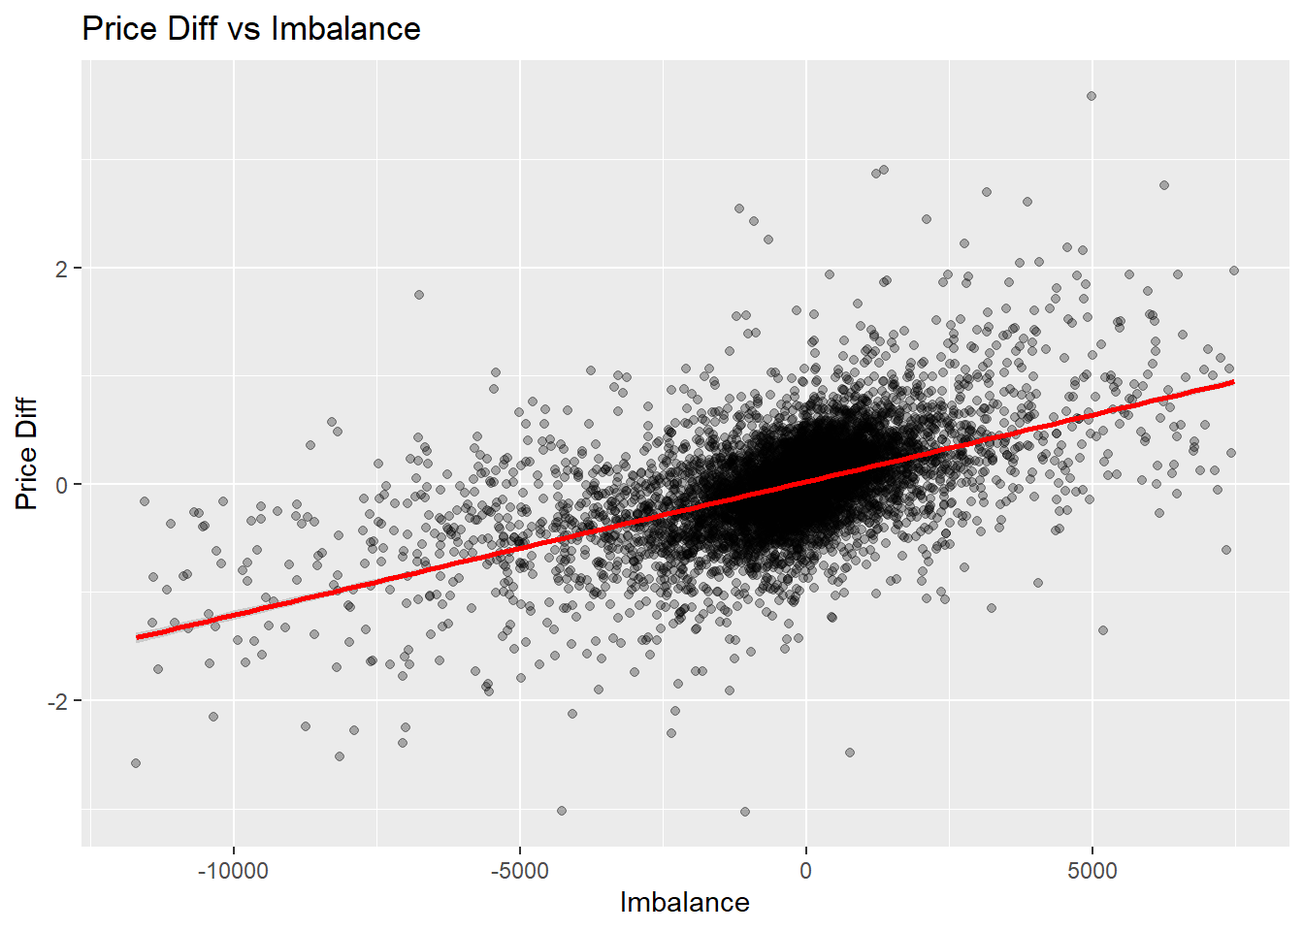
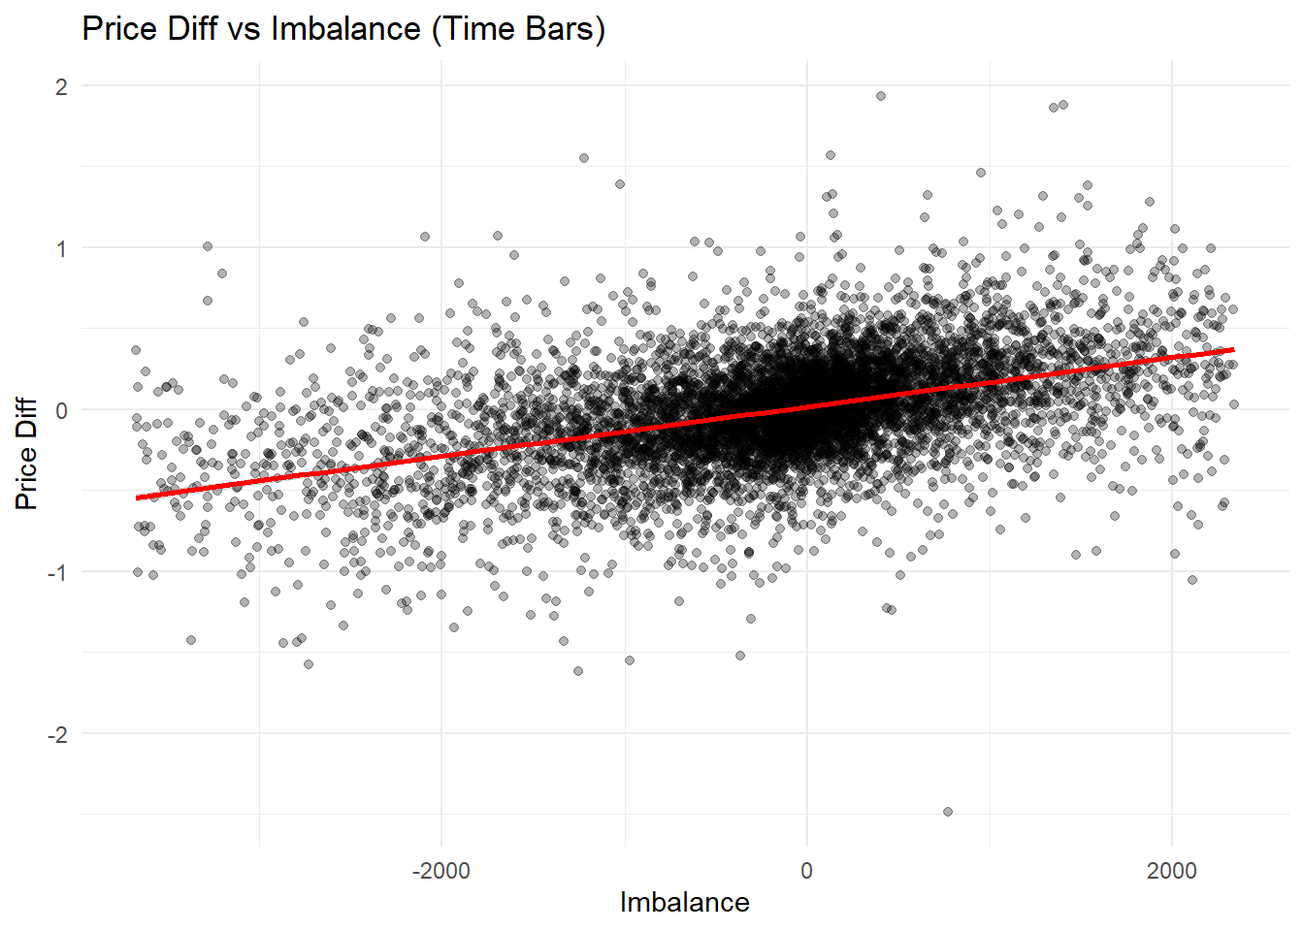
Market impact model changes.

diff --git a/market_impact/estimation_of_market_impact.html b/market_impact/estimation_of_market_impact.html
@@ -116,7 +116,12 @@ window.Quarto = {
    
   <ul>
   <li><a href="#introduction" id="toc-introduction" class="nav-link active" data-scroll-target="#introduction">Introduction</a></li>
-  <li><a href="#regression" id="toc-regression" class="nav-link" data-scroll-target="#regression">Regression</a></li>
+  <li><a href="#regression" id="toc-regression" class="nav-link" data-scroll-target="#regression">Regression</a>
+  <ul class="collapse">
+  <li><a href="#time-bars-5-minutes" id="toc-time-bars-5-minutes" class="nav-link" data-scroll-target="#time-bars-5-minutes">Time Bars (5 minutes)</a></li>
+  <li><a href="#volume-bars-5000-base_qty" id="toc-volume-bars-5000-base_qty" class="nav-link" data-scroll-target="#volume-bars-5000-base_qty">Volume Bars (5000 base_qty)</a></li>
+  </ul></li>
+  <li><a href="#conclusion" id="toc-conclusion" class="nav-link" data-scroll-target="#conclusion">Conclusion</a></li>
   </ul>
 </nav>
 </div>
@@ -155,7 +160,7 @@ window.Quarto = {
 
 <section id="introduction" class="level1">
 <h1>Introduction</h1>
-<p>To compute trading curves and trading envelopes, market impact and execution costs are needed.</p>
+<p>To compute trading curves and trading envelopes, market impact and execution costs are needed. We estimate the permanent impact parameter using one month (August 2024) of Binance SOLUSD_PERP perpetual futures data: tick-level <code>trades</code> (individual executions, signed by taker side) and <code>bookTicker</code> (best bid/ask snapshots), from which the mid-price process is reconstructed.</p>
 <div class="cell">
 <div class="code-copy-outer-scaffold"><div class="sourceCode cell-code" id="cb1"><pre class="sourceCode r code-with-copy"><code class="sourceCode r"><span id="cb1-1"><a href="#cb1-1" aria-hidden="true" tabindex="-1"></a>trades <span class="ot">&lt;-</span> <span class="fu">fread</span>(<span class="st">"data/SOLUSD_PERP-trades-2024-08.csv"</span>)</span>
 <span id="cb1-2"><a href="#cb1-2" aria-hidden="true" tabindex="-1"></a>bookTicker <span class="ot">&lt;-</span> <span class="fu">fread</span>(<span class="st">"data/SOLUSD_PERP-bookTicker-2024-08.csv"</span>)</span>
@@ -170,6 +175,7 @@ window.Quarto = {
 <span id="cb1-11"><a href="#cb1-11" aria-hidden="true" tabindex="-1"></a><span class="fu">setorder</span>(trades, time)</span>
 <span id="cb1-12"><a href="#cb1-12" aria-hidden="true" tabindex="-1"></a><span class="fu">setorder</span>(bookTicker, transaction_time)</span></code></pre></div><button title="Copy to Clipboard" class="code-copy-button"><i class="bi"></i></button></div>
 </div>
+<p>For each trade we attach the most recent mid-price observed before it (<code>pre_mid</code>) and the first mid-price observed after it (<code>post_mid</code>), so that the difference between the two isolates the price move associated with that trade (or a bar of trades) net of unrelated mid-price drift.</p>
 <div class="cell">
 <div class="code-copy-outer-scaffold"><div class="sourceCode cell-code" id="cb2"><pre class="sourceCode r code-with-copy"><code class="sourceCode r"><span id="cb2-1"><a href="#cb2-1" aria-hidden="true" tabindex="-1"></a><span class="fu">setkey</span>(bookTicker, transaction_time)</span>
 <span id="cb2-2"><a href="#cb2-2" aria-hidden="true" tabindex="-1"></a>trades[, pre_mid <span class="sc">:</span><span class="er">=</span> bookTicker[trades, on <span class="ot">=</span> .(transaction_time <span class="sc">&lt;</span> time), mult <span class="ot">=</span> <span class="st">"last"</span>, .(mid_price)]<span class="sc">$</span>mid_price]</span>
@@ -177,14 +183,13 @@ window.Quarto = {
 </div>
 <p>The mid price of a stock is modeled by a process <span class="math display">\[
 d S_t = \sigma d W_t + k v_t dt
-\]</span> where <span class="math inline">\(\sigma\)</span> is a positive constant called the arithmetic volatility of the asset, and <span class="math inline">\(k\)</span> is the nonegative parameter modeling the magnitude of the permanent market impact.</p>
-<blockquote class="blockquote">
-<p>investigate how the trader’s own actions together with the order flow of other market participants affects the price of the assets she is trading.</p>
-</blockquote>
+\]</span> where <span class="math inline">\(\sigma\)</span> is a positive constant called the arithmetic volatility of the asset, and <span class="math inline">\(k\)</span> is the nonegative parameter modeling the magnitude of the <strong>permanent market impact</strong>.</p>
+<p>Integrating the drift term over a bar gives <span class="math inline">\(S_{t+\Delta} - S_t \approx k \sum_i v_i + \text{noise}\)</span>, so regressing a bar’s mid-price change (<code>price_diff</code>) on its net signed volume (<code>imbalance</code>) recovers <span class="math inline">\(k\)</span>, the permanent impact per unit of signed order flow, as the slope.</p>
+<p>Bars are constructed two ways to check that the estimate of <span class="math inline">\(k\)</span> is not an artifact of the sampling scheme: fixed 5-minute time bars, and volume bars that close every 5,000 units of <code>base_qty</code> traded.</p>
 <div class="cell">
 <div class="code-copy-outer-scaffold"><div class="sourceCode cell-code" id="cb3"><pre class="sourceCode r code-with-copy"><code class="sourceCode r"><span id="cb3-1"><a href="#cb3-1" aria-hidden="true" tabindex="-1"></a>trades[, sign <span class="sc">:</span><span class="er">=</span> <span class="fu">ifelse</span>(is_buyer_maker, <span class="sc">-</span><span class="dv">1</span>, <span class="dv">1</span>)]</span>
 <span id="cb3-2"><a href="#cb3-2" aria-hidden="true" tabindex="-1"></a>trades[, sign_base_qty <span class="sc">:</span><span class="er">=</span> base_qty <span class="sc">*</span> sign]</span>
-<span id="cb3-3"><a href="#cb3-3" aria-hidden="true" tabindex="-1"></a>bars <span class="ot">&lt;-</span> trades[, .(</span>
+<span id="cb3-3"><a href="#cb3-3" aria-hidden="true" tabindex="-1"></a>bars_time <span class="ot">&lt;-</span> trades[, .(</span>
 <span id="cb3-4"><a href="#cb3-4" aria-hidden="true" tabindex="-1"></a>  <span class="at">imbalance =</span> <span class="fu">sum</span>(sign_base_qty),</span>
 <span id="cb3-5"><a href="#cb3-5" aria-hidden="true" tabindex="-1"></a>  <span class="at">base_qty =</span> <span class="fu">sum</span>(base_qty),</span>
 <span id="cb3-6"><a href="#cb3-6" aria-hidden="true" tabindex="-1"></a>  <span class="at">n_trades =</span> .N,</span>
@@ -192,59 +197,76 @@ d S_t = \sigma d W_t + k v_t dt
 <span id="cb3-8"><a href="#cb3-8" aria-hidden="true" tabindex="-1"></a>  <span class="at">pre_mid_price =</span> <span class="fu">first</span>(pre_mid),</span>
 <span id="cb3-9"><a href="#cb3-9" aria-hidden="true" tabindex="-1"></a>  <span class="at">post_mid_price =</span> <span class="fu">last</span>(post_mid)</span>
 <span id="cb3-10"><a href="#cb3-10" aria-hidden="true" tabindex="-1"></a>), by <span class="ot">=</span> .(<span class="at">bin =</span> <span class="fu">floor_date</span>(ts, <span class="st">"5 minutes"</span>))]</span>
-<span id="cb3-11"><a href="#cb3-11" aria-hidden="true" tabindex="-1"></a>bars[, std_dev <span class="sc">:</span><span class="er">=</span> <span class="fu">rollapply</span>(pre_mid_price, <span class="at">width =</span> <span class="dv">15</span>, <span class="at">FUN =</span> sd, <span class="at">fill =</span> <span class="cn">NA</span>, <span class="at">align =</span> <span class="st">"right"</span>)]</span></code></pre></div><button title="Copy to Clipboard" class="code-copy-button"><i class="bi"></i></button></div>
+<span id="cb3-11"><a href="#cb3-11" aria-hidden="true" tabindex="-1"></a>bars_time[, std_dev <span class="sc">:</span><span class="er">=</span> <span class="fu">rollapply</span>(pre_mid_price, <span class="at">width =</span> <span class="dv">15</span>, <span class="at">FUN =</span> sd, <span class="at">fill =</span> <span class="cn">NA</span>, <span class="at">align =</span> <span class="st">"right"</span>)]</span></code></pre></div><button title="Copy to Clipboard" class="code-copy-button"><i class="bi"></i></button></div>
 </div>
 <div class="cell">
-<div class="code-copy-outer-scaffold"><div class="sourceCode cell-code" id="cb4"><pre class="sourceCode r code-with-copy"><code class="sourceCode r"><span id="cb4-1"><a href="#cb4-1" aria-hidden="true" tabindex="-1"></a>q_std_dev <span class="ot">&lt;-</span> <span class="fu">quantile</span>(bars<span class="sc">$</span>std_dev, <span class="fl">0.995</span>, <span class="at">na.rm =</span> <span class="cn">TRUE</span>)</span>
-<span id="cb4-2"><a href="#cb4-2" aria-hidden="true" tabindex="-1"></a>q_imbalance_high <span class="ot">&lt;-</span> <span class="fu">quantile</span>(bars<span class="sc">$</span>imbalance, <span class="fl">0.995</span>, <span class="at">na.rm =</span> <span class="cn">TRUE</span>)</span>
-<span id="cb4-3"><a href="#cb4-3" aria-hidden="true" tabindex="-1"></a>q_imbalance_low <span class="ot">&lt;-</span> <span class="fu">quantile</span>(bars<span class="sc">$</span>imbalance, <span class="fl">0.005</span>, <span class="at">na.rm =</span> <span class="cn">TRUE</span>)</span>
-<span id="cb4-4"><a href="#cb4-4" aria-hidden="true" tabindex="-1"></a>bars <span class="ot">&lt;-</span> bars[std_dev <span class="sc">&lt;=</span> q_std_dev <span class="sc">&amp;</span> imbalance <span class="sc">&lt;=</span> q_imbalance_high <span class="sc">&amp;</span> imbalance <span class="sc">&gt;=</span> q_imbalance_low]</span></code></pre></div><button title="Copy to Clipboard" class="code-copy-button"><i class="bi"></i></button></div>
+<div class="code-copy-outer-scaffold"><div class="sourceCode cell-code" id="cb4"><pre class="sourceCode r code-with-copy"><code class="sourceCode r"><span id="cb4-1"><a href="#cb4-1" aria-hidden="true" tabindex="-1"></a><span class="co"># Volume bars: group trades into buckets of 5000 base_qty traded</span></span>
+<span id="cb4-2"><a href="#cb4-2" aria-hidden="true" tabindex="-1"></a>trades[, cum_base_qty <span class="sc">:</span><span class="er">=</span> <span class="fu">cumsum</span>(base_qty)]</span>
+<span id="cb4-3"><a href="#cb4-3" aria-hidden="true" tabindex="-1"></a>trades[, vol_bin <span class="sc">:</span><span class="er">=</span> <span class="fu">floor</span>(cum_base_qty <span class="sc">/</span> <span class="dv">5000</span>)]</span>
+<span id="cb4-4"><a href="#cb4-4" aria-hidden="true" tabindex="-1"></a>bars_volume <span class="ot">&lt;-</span> trades[, .(</span>
+<span id="cb4-5"><a href="#cb4-5" aria-hidden="true" tabindex="-1"></a>  <span class="at">imbalance =</span> <span class="fu">sum</span>(sign_base_qty),</span>
+<span id="cb4-6"><a href="#cb4-6" aria-hidden="true" tabindex="-1"></a>  <span class="at">base_qty =</span> <span class="fu">sum</span>(base_qty),</span>
+<span id="cb4-7"><a href="#cb4-7" aria-hidden="true" tabindex="-1"></a>  <span class="at">n_trades =</span> .N,</span>
+<span id="cb4-8"><a href="#cb4-8" aria-hidden="true" tabindex="-1"></a>  <span class="at">price_diff =</span> <span class="fu">last</span>(post_mid) <span class="sc">-</span> <span class="fu">first</span>(pre_mid),</span>
+<span id="cb4-9"><a href="#cb4-9" aria-hidden="true" tabindex="-1"></a>  <span class="at">pre_mid_price =</span> <span class="fu">first</span>(pre_mid),</span>
+<span id="cb4-10"><a href="#cb4-10" aria-hidden="true" tabindex="-1"></a>  <span class="at">post_mid_price =</span> <span class="fu">last</span>(post_mid)</span>
+<span id="cb4-11"><a href="#cb4-11" aria-hidden="true" tabindex="-1"></a>), by <span class="ot">=</span> .(<span class="at">bin =</span> vol_bin)]</span>
+<span id="cb4-12"><a href="#cb4-12" aria-hidden="true" tabindex="-1"></a>bars_volume[, std_dev <span class="sc">:</span><span class="er">=</span> <span class="fu">rollapply</span>(pre_mid_price, <span class="at">width =</span> <span class="dv">15</span>, <span class="at">FUN =</span> sd, <span class="at">fill =</span> <span class="cn">NA</span>, <span class="at">align =</span> <span class="st">"right"</span>)]</span></code></pre></div><button title="Copy to Clipboard" class="code-copy-button"><i class="bi"></i></button></div>
+</div>
+<p>The top 5% of rolling volatility (<code>std_dev</code>) and top 5% of traded volume (<code>base_qty</code>) are dropped to exclude bars dominated by news or liquidation events, the top and bottom 5% of <code>imbalance</code> are dropped to limit outlier influence on the OLS fit, and bars with <code>abs(imbalance) &lt;= 1</code> (roughly below $100 notional) are dropped since they carry little order-flow information.</p>
+<div class="cell">
+<div class="code-copy-outer-scaffold"><div class="sourceCode cell-code" id="cb5"><pre class="sourceCode r code-with-copy"><code class="sourceCode r"><span id="cb5-1"><a href="#cb5-1" aria-hidden="true" tabindex="-1"></a>filter_bars <span class="ot">&lt;-</span> <span class="cf">function</span>(bars) {</span>
+<span id="cb5-2"><a href="#cb5-2" aria-hidden="true" tabindex="-1"></a>  q_std_dev <span class="ot">&lt;-</span> <span class="fu">quantile</span>(bars<span class="sc">$</span>std_dev, <span class="fl">0.95</span>, <span class="at">na.rm =</span> <span class="cn">TRUE</span>)</span>
+<span id="cb5-3"><a href="#cb5-3" aria-hidden="true" tabindex="-1"></a>  q_base_qty <span class="ot">&lt;-</span> <span class="fu">quantile</span>(bars<span class="sc">$</span>base_qty, <span class="fl">0.95</span>, <span class="at">na.rm =</span> <span class="cn">TRUE</span>)</span>
+<span id="cb5-4"><a href="#cb5-4" aria-hidden="true" tabindex="-1"></a>  q_imbalance_high <span class="ot">&lt;-</span> <span class="fu">quantile</span>(bars<span class="sc">$</span>imbalance, <span class="fl">0.95</span>, <span class="at">na.rm =</span> <span class="cn">TRUE</span>)</span>
+<span id="cb5-5"><a href="#cb5-5" aria-hidden="true" tabindex="-1"></a>  q_imbalance_low <span class="ot">&lt;-</span> <span class="fu">quantile</span>(bars<span class="sc">$</span>imbalance, <span class="fl">0.05</span>, <span class="at">na.rm =</span> <span class="cn">TRUE</span>)</span>
+<span id="cb5-6"><a href="#cb5-6" aria-hidden="true" tabindex="-1"></a>  bars[</span>
+<span id="cb5-7"><a href="#cb5-7" aria-hidden="true" tabindex="-1"></a>    std_dev <span class="sc">&lt;=</span> q_std_dev <span class="sc">&amp;</span></span>
+<span id="cb5-8"><a href="#cb5-8" aria-hidden="true" tabindex="-1"></a>      base_qty <span class="sc">&lt;=</span> q_base_qty <span class="sc">&amp;</span></span>
+<span id="cb5-9"><a href="#cb5-9" aria-hidden="true" tabindex="-1"></a>      imbalance <span class="sc">&lt;=</span> q_imbalance_high <span class="sc">&amp;</span></span>
+<span id="cb5-10"><a href="#cb5-10" aria-hidden="true" tabindex="-1"></a>      imbalance <span class="sc">&gt;=</span> q_imbalance_low <span class="sc">&amp;</span></span>
+<span id="cb5-11"><a href="#cb5-11" aria-hidden="true" tabindex="-1"></a>      <span class="fu">abs</span>(imbalance) <span class="sc">&gt;</span> <span class="dv">1</span></span>
+<span id="cb5-12"><a href="#cb5-12" aria-hidden="true" tabindex="-1"></a>  ]</span>
+<span id="cb5-13"><a href="#cb5-13" aria-hidden="true" tabindex="-1"></a>}</span>
+<span id="cb5-14"><a href="#cb5-14" aria-hidden="true" tabindex="-1"></a>bars_time <span class="ot">&lt;-</span> <span class="fu">filter_bars</span>(bars_time)</span>
+<span id="cb5-15"><a href="#cb5-15" aria-hidden="true" tabindex="-1"></a>bars_volume <span class="ot">&lt;-</span> <span class="fu">filter_bars</span>(bars_volume)</span></code></pre></div><button title="Copy to Clipboard" class="code-copy-button"><i class="bi"></i></button></div>
 </div>
 </section>
 <section id="regression" class="level1">
 <h1>Regression</h1>
+<p>The slope on <code>imbalance</code> estimates <span class="math inline">\(k\)</span>; its significance and the <span class="math inline">\(R^2\)</span> indicate how much of the bar-level mid-price change is explained by signed order flow alone.</p>
+<section id="time-bars-5-minutes" class="level2">
+<h2 class="anchored" data-anchor-id="time-bars-5-minutes">Time Bars (5 minutes)</h2>
 <div class="cell">
-<div class="code-copy-outer-scaffold"><div class="sourceCode cell-code" id="cb5"><pre class="sourceCode r code-with-copy"><code class="sourceCode r"><span id="cb5-1"><a href="#cb5-1" aria-hidden="true" tabindex="-1"></a>fitted <span class="ot">&lt;-</span> <span class="fu">lm</span>(price_diff <span class="sc">~</span> imbalance, bars)</span>
-<span id="cb5-2"><a href="#cb5-2" aria-hidden="true" tabindex="-1"></a><span class="fu">summary</span>(fitted)</span></code></pre></div><button title="Copy to Clipboard" class="code-copy-button"><i class="bi"></i></button></div>
+<div class="code-copy-outer-scaffold"><div class="sourceCode cell-code" id="cb6"><pre class="sourceCode r code-with-copy"><code class="sourceCode r"><span id="cb6-1"><a href="#cb6-1" aria-hidden="true" tabindex="-1"></a>fitted_time <span class="ot">&lt;-</span> <span class="fu">lm</span>(price_diff <span class="sc">~</span> imbalance <span class="sc">+</span> <span class="dv">0</span>, bars_time)</span>
+<span id="cb6-2"><a href="#cb6-2" aria-hidden="true" tabindex="-1"></a><span class="fu">summary</span>(fitted_time)</span></code></pre></div><button title="Copy to Clipboard" class="code-copy-button"><i class="bi"></i></button></div>
 <div class="cell-output cell-output-stdout">
 <pre><code>
 Call:
-lm(formula = price_diff ~ imbalance, data = bars)
+lm(formula = price_diff ~ imbalance + 0, data = bars_time)
 
 Residuals:
      Min       1Q   Median       3Q      Max 
--2.91825 -0.17697 -0.00934  0.16921  2.94785 
+-2.60061 -0.14075  0.01043  0.17450  1.87353 
 
 Coefficients:
-             Estimate Std. Error t value Pr(&gt;|t|)    
-(Intercept) 2.286e-02  3.932e-03   5.814 6.32e-09 ***
-imbalance   1.234e-04  2.117e-06  58.256  &lt; 2e-16 ***
+           Estimate Std. Error t value Pr(&gt;|t|)    
+imbalance 1.502e-04  3.394e-06   44.26   &lt;2e-16 ***
 ---
 Signif. codes:  0 '***' 0.001 '**' 0.01 '*' 0.05 '.' 0.1 ' ' 1
 
-Residual standard error: 0.3652 on 8786 degrees of freedom
-Multiple R-squared:  0.2786,    Adjusted R-squared:  0.2786 
-F-statistic:  3394 on 1 and 8786 DF,  p-value: &lt; 2.2e-16</code></pre>
+Residual standard error: 0.2956 on 7668 degrees of freedom
+Multiple R-squared:  0.2035,    Adjusted R-squared:  0.2034 
+F-statistic:  1959 on 1 and 7668 DF,  p-value: &lt; 2.2e-16</code></pre>
 </div>
 </div>
 <div class="cell">
-<div class="code-copy-outer-scaffold"><div class="sourceCode cell-code" id="cb7"><pre class="sourceCode r code-with-copy"><code class="sourceCode r"><span id="cb7-1"><a href="#cb7-1" aria-hidden="true" tabindex="-1"></a><span class="fu">ggplot</span>(bars, <span class="fu">aes</span>(<span class="at">x =</span> bin, <span class="at">y =</span> std_dev)) <span class="sc">+</span></span>
-<span id="cb7-2"><a href="#cb7-2" aria-hidden="true" tabindex="-1"></a>  <span class="fu">geom_line</span>() <span class="sc">+</span></span>
-<span id="cb7-3"><a href="#cb7-3" aria-hidden="true" tabindex="-1"></a>  <span class="fu">labs</span>(<span class="at">title =</span> <span class="st">"Rolling Standard Deviation"</span>, <span class="at">x =</span> <span class="st">"Time"</span>, <span class="at">y =</span> <span class="st">"Std Dev"</span>)</span></code></pre></div><button title="Copy to Clipboard" class="code-copy-button"><i class="bi"></i></button></div>
-<div class="cell-output-display">
-<div>
-<figure class="figure">
-<p><img src="estimation_of_market_impact_files/figure-html/unnamed-chunk-7-1.png" class="img-fluid figure-img" width="672"></p>
-</figure>
-</div>
-</div>
-</div>
-<div class="cell">
-<div class="code-copy-outer-scaffold"><div class="sourceCode cell-code" id="cb8"><pre class="sourceCode r code-with-copy"><code class="sourceCode r"><span id="cb8-1"><a href="#cb8-1" aria-hidden="true" tabindex="-1"></a><span class="fu">ggplot</span>(bars, <span class="fu">aes</span>(<span class="at">x =</span> imbalance, <span class="at">y =</span> price_diff)) <span class="sc">+</span></span>
+<div class="code-copy-outer-scaffold"><div class="sourceCode cell-code" id="cb8"><pre class="sourceCode r code-with-copy"><code class="sourceCode r"><span id="cb8-1"><a href="#cb8-1" aria-hidden="true" tabindex="-1"></a><span class="fu">ggplot</span>(bars_time, <span class="fu">aes</span>(<span class="at">x =</span> imbalance, <span class="at">y =</span> price_diff)) <span class="sc">+</span></span>
 <span id="cb8-2"><a href="#cb8-2" aria-hidden="true" tabindex="-1"></a>  <span class="fu">geom_point</span>(<span class="at">alpha =</span> <span class="fl">0.3</span>) <span class="sc">+</span></span>
 <span id="cb8-3"><a href="#cb8-3" aria-hidden="true" tabindex="-1"></a>  <span class="fu">geom_smooth</span>(<span class="at">method =</span> <span class="st">"lm"</span>, <span class="at">color =</span> <span class="st">"red"</span>, <span class="at">se =</span> <span class="cn">TRUE</span>) <span class="sc">+</span></span>
-<span id="cb8-4"><a href="#cb8-4" aria-hidden="true" tabindex="-1"></a>  <span class="fu">labs</span>(<span class="at">title =</span> <span class="st">"Price Diff vs Imbalance"</span>,</span>
-<span id="cb8-5"><a href="#cb8-5" aria-hidden="true" tabindex="-1"></a>       <span class="at">x =</span> <span class="st">"Imbalance"</span>, <span class="at">y =</span> <span class="st">"Price Diff"</span>)</span></code></pre></div><button title="Copy to Clipboard" class="code-copy-button"><i class="bi"></i></button></div>
+<span id="cb8-4"><a href="#cb8-4" aria-hidden="true" tabindex="-1"></a>  <span class="fu">labs</span>(<span class="at">title =</span> <span class="st">"Price Diff vs Imbalance (Time Bars)"</span>,</span>
+<span id="cb8-5"><a href="#cb8-5" aria-hidden="true" tabindex="-1"></a>       <span class="at">x =</span> <span class="st">"Imbalance"</span>, <span class="at">y =</span> <span class="st">"Price Diff"</span>) <span class="sc">+</span></span>
+<span id="cb8-6"><a href="#cb8-6" aria-hidden="true" tabindex="-1"></a>  <span class="fu">theme_minimal</span>()</span></code></pre></div><button title="Copy to Clipboard" class="code-copy-button"><i class="bi"></i></button></div>
 <div class="cell-output cell-output-stderr">
 <pre><code>`geom_smooth()` using formula = 'y ~ x'</code></pre>
 </div>
@@ -256,6 +278,55 @@ F-statistic:  3394 on 1 and 8786 DF,  p-value: &lt; 2.2e-16</code></pre>
 </div>
 </div>
 </div>
+</section>
+<section id="volume-bars-5000-base_qty" class="level2">
+<h2 class="anchored" data-anchor-id="volume-bars-5000-base_qty">Volume Bars (5000 base_qty)</h2>
+<div class="cell">
+<div class="code-copy-outer-scaffold"><div class="sourceCode cell-code" id="cb10"><pre class="sourceCode r code-with-copy"><code class="sourceCode r"><span id="cb10-1"><a href="#cb10-1" aria-hidden="true" tabindex="-1"></a>fitted_volume <span class="ot">&lt;-</span> <span class="fu">lm</span>(price_diff <span class="sc">~</span> imbalance <span class="sc">+</span> <span class="dv">0</span>, bars_volume)</span>
+<span id="cb10-2"><a href="#cb10-2" aria-hidden="true" tabindex="-1"></a><span class="fu">summary</span>(fitted_volume)</span></code></pre></div><button title="Copy to Clipboard" class="code-copy-button"><i class="bi"></i></button></div>
+<div class="cell-output cell-output-stdout">
+<pre><code>
+Call:
+lm(formula = price_diff ~ imbalance + 0, data = bars_volume)
+
+Residuals:
+     Min       1Q   Median       3Q      Max 
+-1.46156 -0.21634  0.02968  0.28198  1.62828 
+
+Coefficients:
+           Estimate Std. Error t value Pr(&gt;|t|)    
+imbalance 1.678e-04  3.298e-06    50.9   &lt;2e-16 ***
+---
+Signif. codes:  0 '***' 0.001 '**' 0.01 '*' 0.05 '.' 0.1 ' ' 1
+
+Residual standard error: 0.3799 on 8667 degrees of freedom
+Multiple R-squared:  0.2301,    Adjusted R-squared:   0.23 
+F-statistic:  2590 on 1 and 8667 DF,  p-value: &lt; 2.2e-16</code></pre>
+</div>
+</div>
+<div class="cell">
+<div class="code-copy-outer-scaffold"><div class="sourceCode cell-code" id="cb12"><pre class="sourceCode r code-with-copy"><code class="sourceCode r"><span id="cb12-1"><a href="#cb12-1" aria-hidden="true" tabindex="-1"></a><span class="fu">ggplot</span>(bars_volume, <span class="fu">aes</span>(<span class="at">x =</span> imbalance, <span class="at">y =</span> price_diff)) <span class="sc">+</span></span>
+<span id="cb12-2"><a href="#cb12-2" aria-hidden="true" tabindex="-1"></a>  <span class="fu">geom_point</span>(<span class="at">alpha =</span> <span class="fl">0.3</span>) <span class="sc">+</span></span>
+<span id="cb12-3"><a href="#cb12-3" aria-hidden="true" tabindex="-1"></a>  <span class="fu">geom_smooth</span>(<span class="at">method =</span> <span class="st">"lm"</span>, <span class="at">color =</span> <span class="st">"red"</span>, <span class="at">se =</span> <span class="cn">TRUE</span>) <span class="sc">+</span></span>
+<span id="cb12-4"><a href="#cb12-4" aria-hidden="true" tabindex="-1"></a>  <span class="fu">labs</span>(<span class="at">title =</span> <span class="st">"Price Diff vs Imbalance (Volume Bars)"</span>,</span>
+<span id="cb12-5"><a href="#cb12-5" aria-hidden="true" tabindex="-1"></a>       <span class="at">x =</span> <span class="st">"Imbalance"</span>, <span class="at">y =</span> <span class="st">"Price Diff"</span>) <span class="sc">+</span></span>
+<span id="cb12-6"><a href="#cb12-6" aria-hidden="true" tabindex="-1"></a>  <span class="fu">theme_minimal</span>()</span></code></pre></div><button title="Copy to Clipboard" class="code-copy-button"><i class="bi"></i></button></div>
+<div class="cell-output cell-output-stderr">
+<pre><code>`geom_smooth()` using formula = 'y ~ x'</code></pre>
+</div>
+<div class="cell-output-display">
+<div>
+<figure class="figure">
+<p><img src="estimation_of_market_impact_files/figure-html/unnamed-chunk-10-1.png" class="img-fluid figure-img" width="672"></p>
+</figure>
+</div>
+</div>
+</div>
+</section>
+</section>
+<section id="conclusion" class="level1">
+<h1>Conclusion</h1>
+<p>The estimated permanent impact coefficient <span class="math inline">\(k\)</span> (the slope on <code>imbalance</code>) is <span class="math inline">\(1.5 \times 10^{-4}\)</span> for the time-bar specification and <span class="math inline">\(1.68 \times 10^{-4}\)</span> for the volume-bar specification. A stable, significant slope on <code>imbalance</code> across both the time-bar and volume-bar specifications would indicate a genuine permanent impact coefficient <span class="math inline">\(k\)</span> rather than an artifact of the chosen bar construction.</p>
 </section>
 
 </main>
